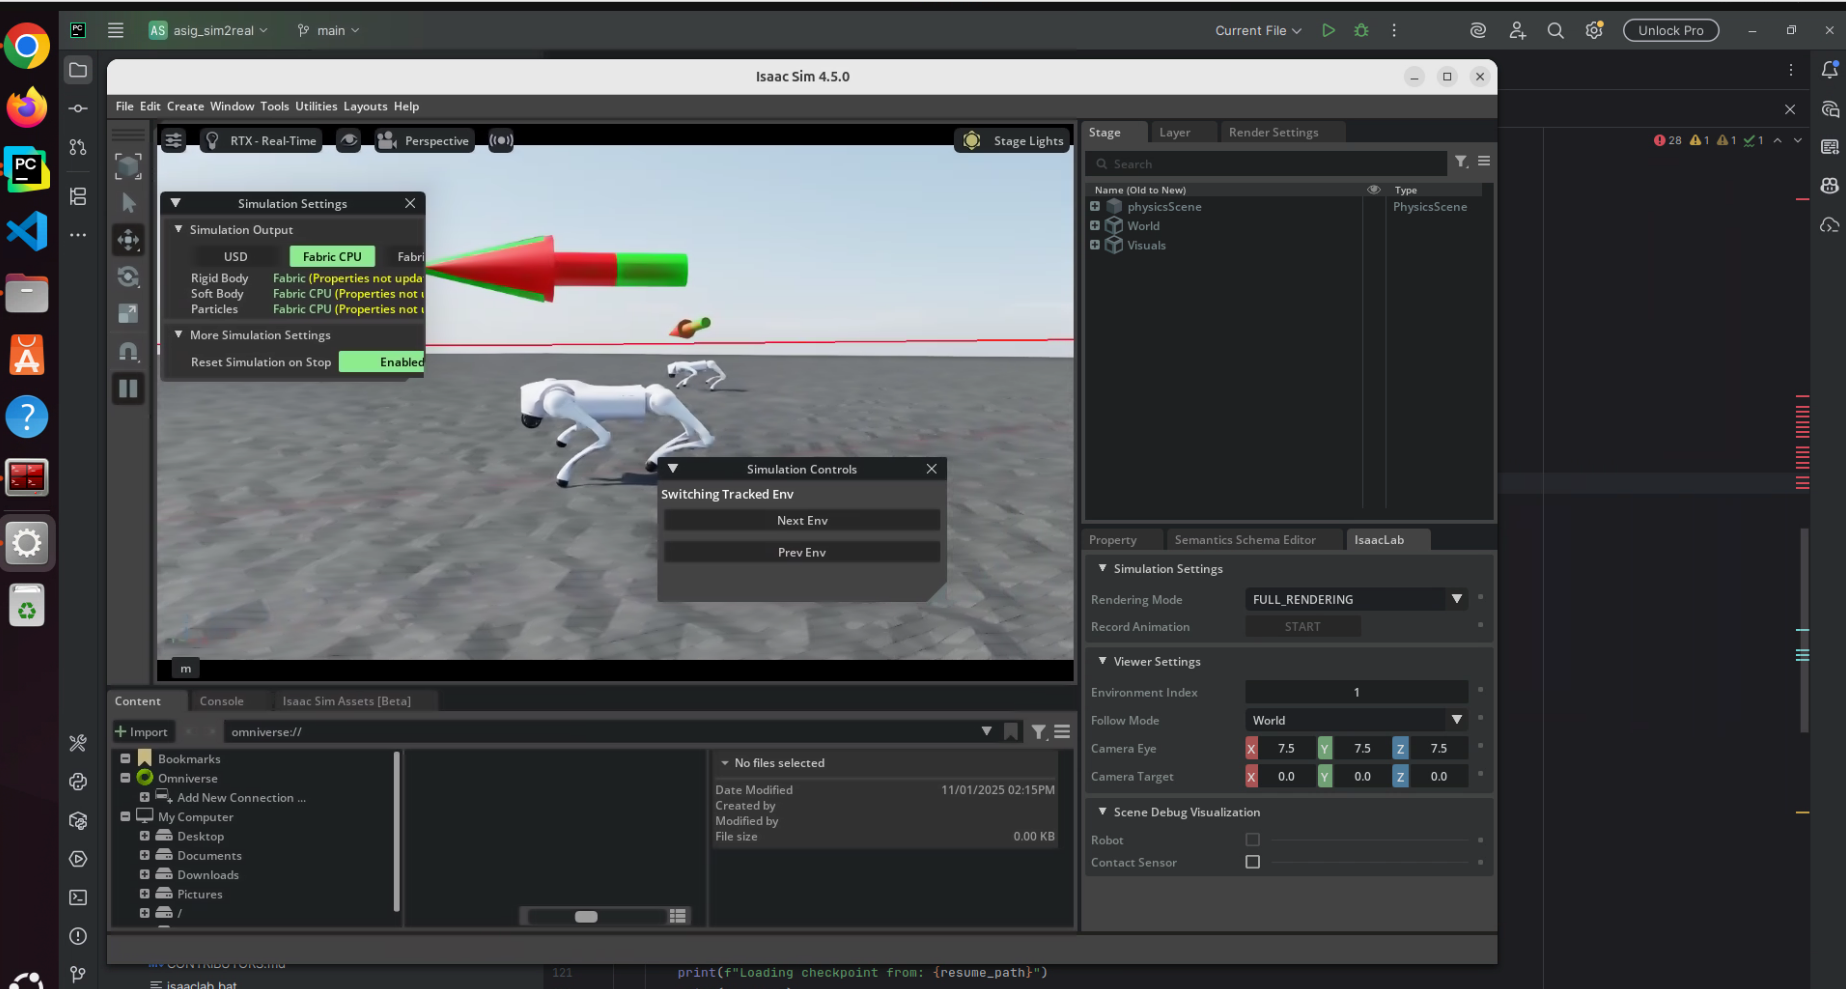
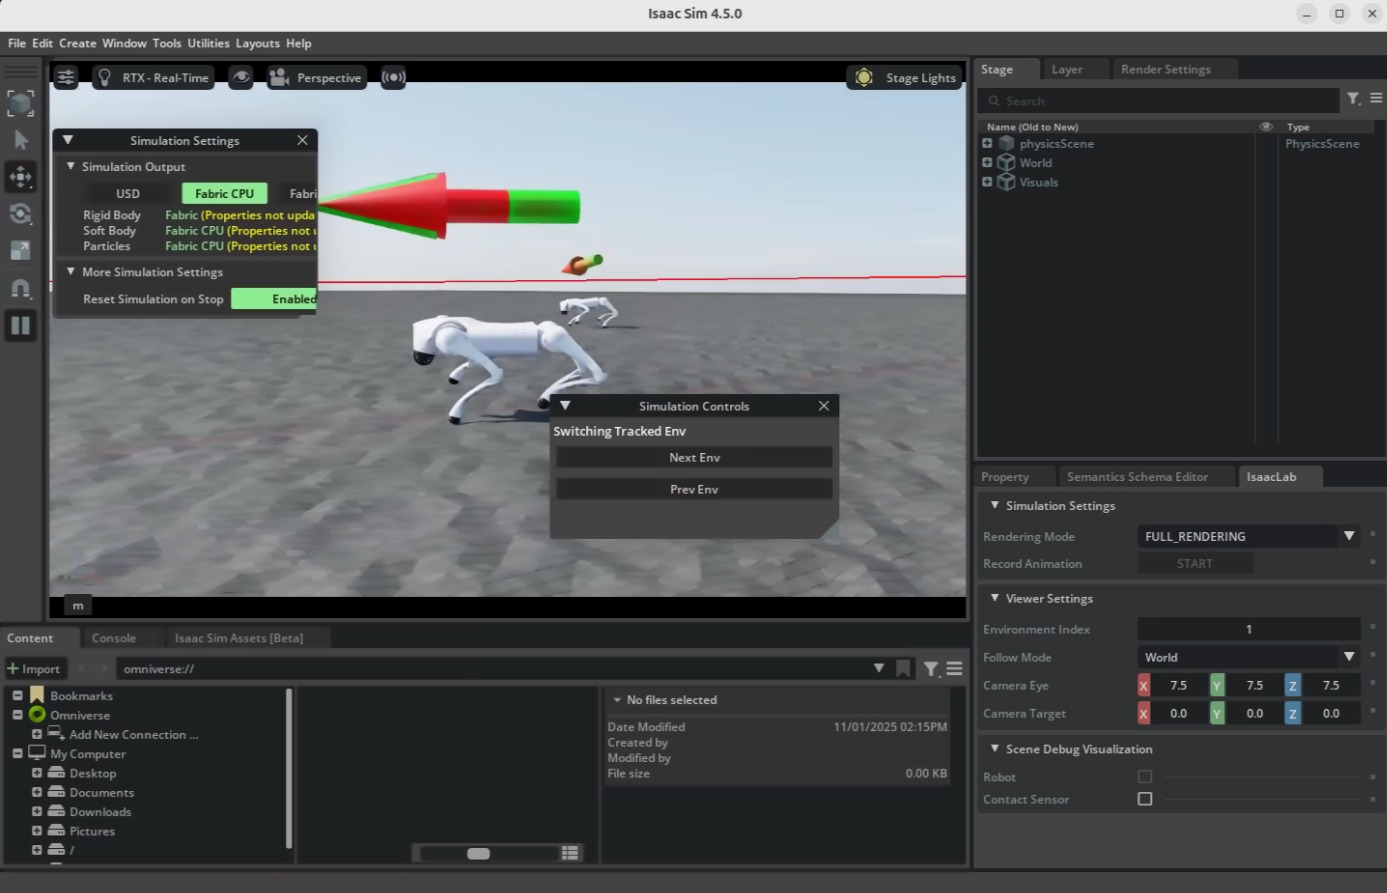
Updated mujoco playground deploy

diff --git a/docs/go2/go2_mujoco.md b/docs/go2/go2_mujoco.md
@@ -1,7 +1,7 @@
 # MuJoCo Playground Training
 This instruction explains how to train a [Unitree Go2 quadruped](https://www.unitree.com/go2) to track commanded velocities using [*Reinforcement Learning (RL)*](https://en.wikipedia.org/wiki/Reinforcement_learning) in [MuJoCo Playground](https://github.com/google-deepmind/mujoco_playground/). To follow the steps, refer to our [customized open-source repository](TBD).
 
-**Task**: Track body-frame planar velocity commands:  $\mathbf{c} = [v_x^c, v_y^c, \omega_z^c]$  
+**Task**: Track body-frame planar velocity commands: $\mathbf{c} = [v_x^c, v_y^c, \omega_z^c]$  
 where $v_x$ and $v_y$ are the commanded linear velocities in the robot’s body frame, and $\omega_z$ is the commanded yaw rate.  
 **RL algorithm:** [Proximal Policy Optimization (PPO)](https://arxiv.org/pdf/1707.06347)  
 
@@ -80,7 +80,7 @@ The full rewards, reward scales and definitions are listed below:
 | `stand_still` | `-1.0` | $\mathbb{1}_{\lVert\mathbf{c}\rVert_2<0.01}\sum_{j=1}^{12}\left\|q_j-q_j^{\mathrm{default}}\right\|$ |
 | `energy` | `-0.001` | $\sum_{j=1}^{12}\left \| \dot{q}_j\right\| \cdot \left\|\tau_j\right\|$ |
 
-### Domain Randomization (TO BE FINISHED)
+### Domain Randomization
 [Domain randomization](https://arxiv.org/pdf/1703.06907) is used to reduce overfitting, improve robustness, and prepare the controller for deployment conditions. 
 
 | Quantity | Distribution |
@@ -89,7 +89,8 @@ The full rewards, reward scales and definitions are listed below:
 | Body mass and inertia scale | `U(0.85, 1.15)` |
 | Proportional gain `Kp` | `U(25.0, 45.0)` |
 | Derivative gain `Kd` | `U(0.3, 1.6)` |
-| Torso COM offset | x/y `+/-0.05 m`, z `+/-0.04 m` |
+| COM offset | x/y `+/-0.05 m`, z `+/-0.04 m` |
+| External Push  | `U(-1.0, 1.0)` |
 
 
 ### Environment Configuration
@@ -99,7 +100,7 @@ The full rewards, reward scales and definitions are listed below:
 | Control step, `ctrl_dt` | `0.02 s` (50 Hz) |
 | Physics substeps per action | `5` |
 | Nominal episode length | `5,000` control steps (100 s) |
-| Sampled time limit | `3,750–6,250` steps (75–125 s) |
+| Sampled time limit | `3,750 - 6,250` steps (75 - 125 s) |
 | Nominal PD gains | `Kp = 35.0`, `Kd = 0.5` |
 | Soft joint-limit factor | `0.95` |
 
@@ -147,8 +148,8 @@ It is necessary to speficy `play-only`, `load_run_name`, and `checkpoint_num` (o
 train-rsl-ppo \
 --env_name=Go2JoystickFlatTerrain \
 --play_only \
---load_run_name=Go2JoystickFlatTerrain-20260610-225951 \  # choose specific run_name
---checkpoint_num=3000  # choose specific checkpoint, if not specified, the last checkpoint is automatically chosen
+--load_run_name=<run_name> \  # choose specific run_name
+--checkpoint_num=<number>  # optional, choose specific checkpoint, if not specified, the last checkpoint is automatically chosen
 ```
 
 ## Export policy in ONNX format
@@ -157,7 +158,9 @@ This is for sim-to-sim validation and real-world deployment, we use [ONNX format
 train-rsl-ppo \
 --env_name=Go2JoystickFlatTerrain \
 --export_onnx_only \
---load_run_name=ppo_baseline_iter5000_nofclear-20260617-2047 \
---checkpoint_num=3000
+--load_run_name=<run_name> \
+--checkpoint_num=<number>
 ```
 
+## Sim-to-Sim Validation & Deployment
+Refer to next section of deployment.

diff --git a/docs/go2/go2_deployment.md b/docs/go2/go2_deployment.md
@@ -1,11 +1,12 @@
 # Real-Robot Deployment
+We mount a [Jetson Orin AGX 64GB](https://www.nvidia.com/en-us/autonomous-machines/embedded-systems/jetson-orin/) on the [Unitree Go2](https://www.unitree.com/go2) robot. For detailed hardware information, please refer to [REASAN](https://arxiv.org/pdf/2512.09537v1).
 
-## Nvidia Jetson AGX Orin
+
+## NVIDIA Jetson AGX Orin Setup
 
 ### Flash the System
 
-- Hardware setup follow
-[guidance](https://developer.nvidia.com/embedded/learn/jetson-agx-orin-devkit-user-guide/two_ways_to_set_up_software.html#hardware-setup)
+- Hardware setup follow the [guidance](https://developer.nvidia.com/embedded/learn/jetson-agx-orin-devkit-user-guide/two_ways_to_set_up_software.html#hardware-setup)
     - First finish L4T BSP flash step
 - SDK Manager Step1
     - choose **Jetson AGX Orin \[64GB developer kit version\],  JetPack 6.2.1**  
@@ -59,9 +60,65 @@ This may be caused by `sudo apt update` and `upgrade` at initial setups of ubunt
 - SDK Manager Step 4  
 ![](../images/jetson/component_6.png)
 
-# TODO:
+## TODO:
 
 deployment wifi, jetson
 
 refer to paper
 
+## MuJuCo Playground Policy Deployment
+Refer to deploy [here](TBD).  
+![](../images/go2/mujocopg-deploy.gif){width=500}
+
+1. Export Policy into ONNX format file.  
+```sh
+train-rsl-ppo \
+  --env_name=Go2JoystickFlatTerrain \
+  --export_onnx_only \
+  --load_run_name=<run_name> \
+  --checkpoint_num=<checkpoint>
+```
+2. Check and revise `config.yaml`.  
+In real robot deployment, some parameters (e.g. `Kp` and `Kd`) need to be adjusted based on different robot.  
+Set the correct exported policy path: 
+```yaml
+policy:
+  path: "model/policy_deploy.onnx"
+```
+For the real robot, enable `unitree_services`:
+```yaml
+unitree_services:
+  enable: true
+```  
+**Note**: This makes the node call Unitree `SportClient::StandDown()` and `MotionSwitcherClient::ReleaseMode()` before low-level control. For MuJoCo sim-to-sim validation, set `unitree_services` to be `false`.  
+The ROS2 node expects:  
+```text
+input:  obs      [1, 450]
+output: actions  [1, 12]
+```  
+During policy control, the ROS2 node publishes two 12-joint messages in Unitree SDK motor order (`FR`, `FL`, `RR`, `RL`, with `hip`/`thigh`/`calf` for each leg):  
+```text
+- /network_output_raw: unscaled policy actions after finite-value handling and the configured `action_clip`.
+- /target_action: final joint-angle commands, computed as `default_angles + network_output_raw * action_scale`.
+```  
+3. Build the workspace.  
+Source the ROS 2 and Unitree SDK environment first, then:  
+```sh
+cd deploy
+./run_build.sh
+source install/share/go2_joystick_deploy/local_setup.bash
+```  
+**Note**: Source `install/share/go2_joystick_deploy/local_setup.bash` in every terminal
+that uses ROS CLI tools with the custom `JointAngularPositions` message.  
+4. Run With Unitree MuJoCo
+```sh
+cd deploy
+./locomotion_node --net lo --config config.yaml
+```  
+In another terminal, run the existing command publisher:  
+```sh
+python ../deploy/terminal_cmd.py  # or wireless_cmd.py to use joystick controller
+```  
+5. **Real Robot Notes**  
+On shutdown or `Ctrl`+`C`, the node interpolates to `sit_angles` and then sends a
+damping command.

diff --git a/docs/go2/go2_isaaclab.md b/docs/go2/go2_isaaclab.md
@@ -67,7 +67,7 @@ First install dependencies:
 
 - Install ROS2 Humble following [this guide](https://docs.ros.org/en/humble/Installation/Ubuntu-Install-Debs.html)
 
-- Install (unitree_sdk2)[https://github.com/unitreerobotics/unitree_sdk2]
+- Install [unitree_sdk2](https://github.com/unitreerobotics/unitree_sdk2)
 
 - Install other dependencies
 ```base
@@ -76,7 +76,7 @@ sudo apt install libeigen3-dev libfmt-dev
 
 - Install onnxruntime
 
-    * Go to the (release page)[https://github.com/microsoft/onnxruntime/releases] and download prebuilt binaries. 
+    * Go to the [release page](https://github.com/microsoft/onnxruntime/releases) and download prebuilt binaries. 
     Please download this file (tested): onnxruntime-linux-x64-gpu-1.22.0.tgz
 
     * Extract the folder and copy the “include” folder to “/usr/local”.
